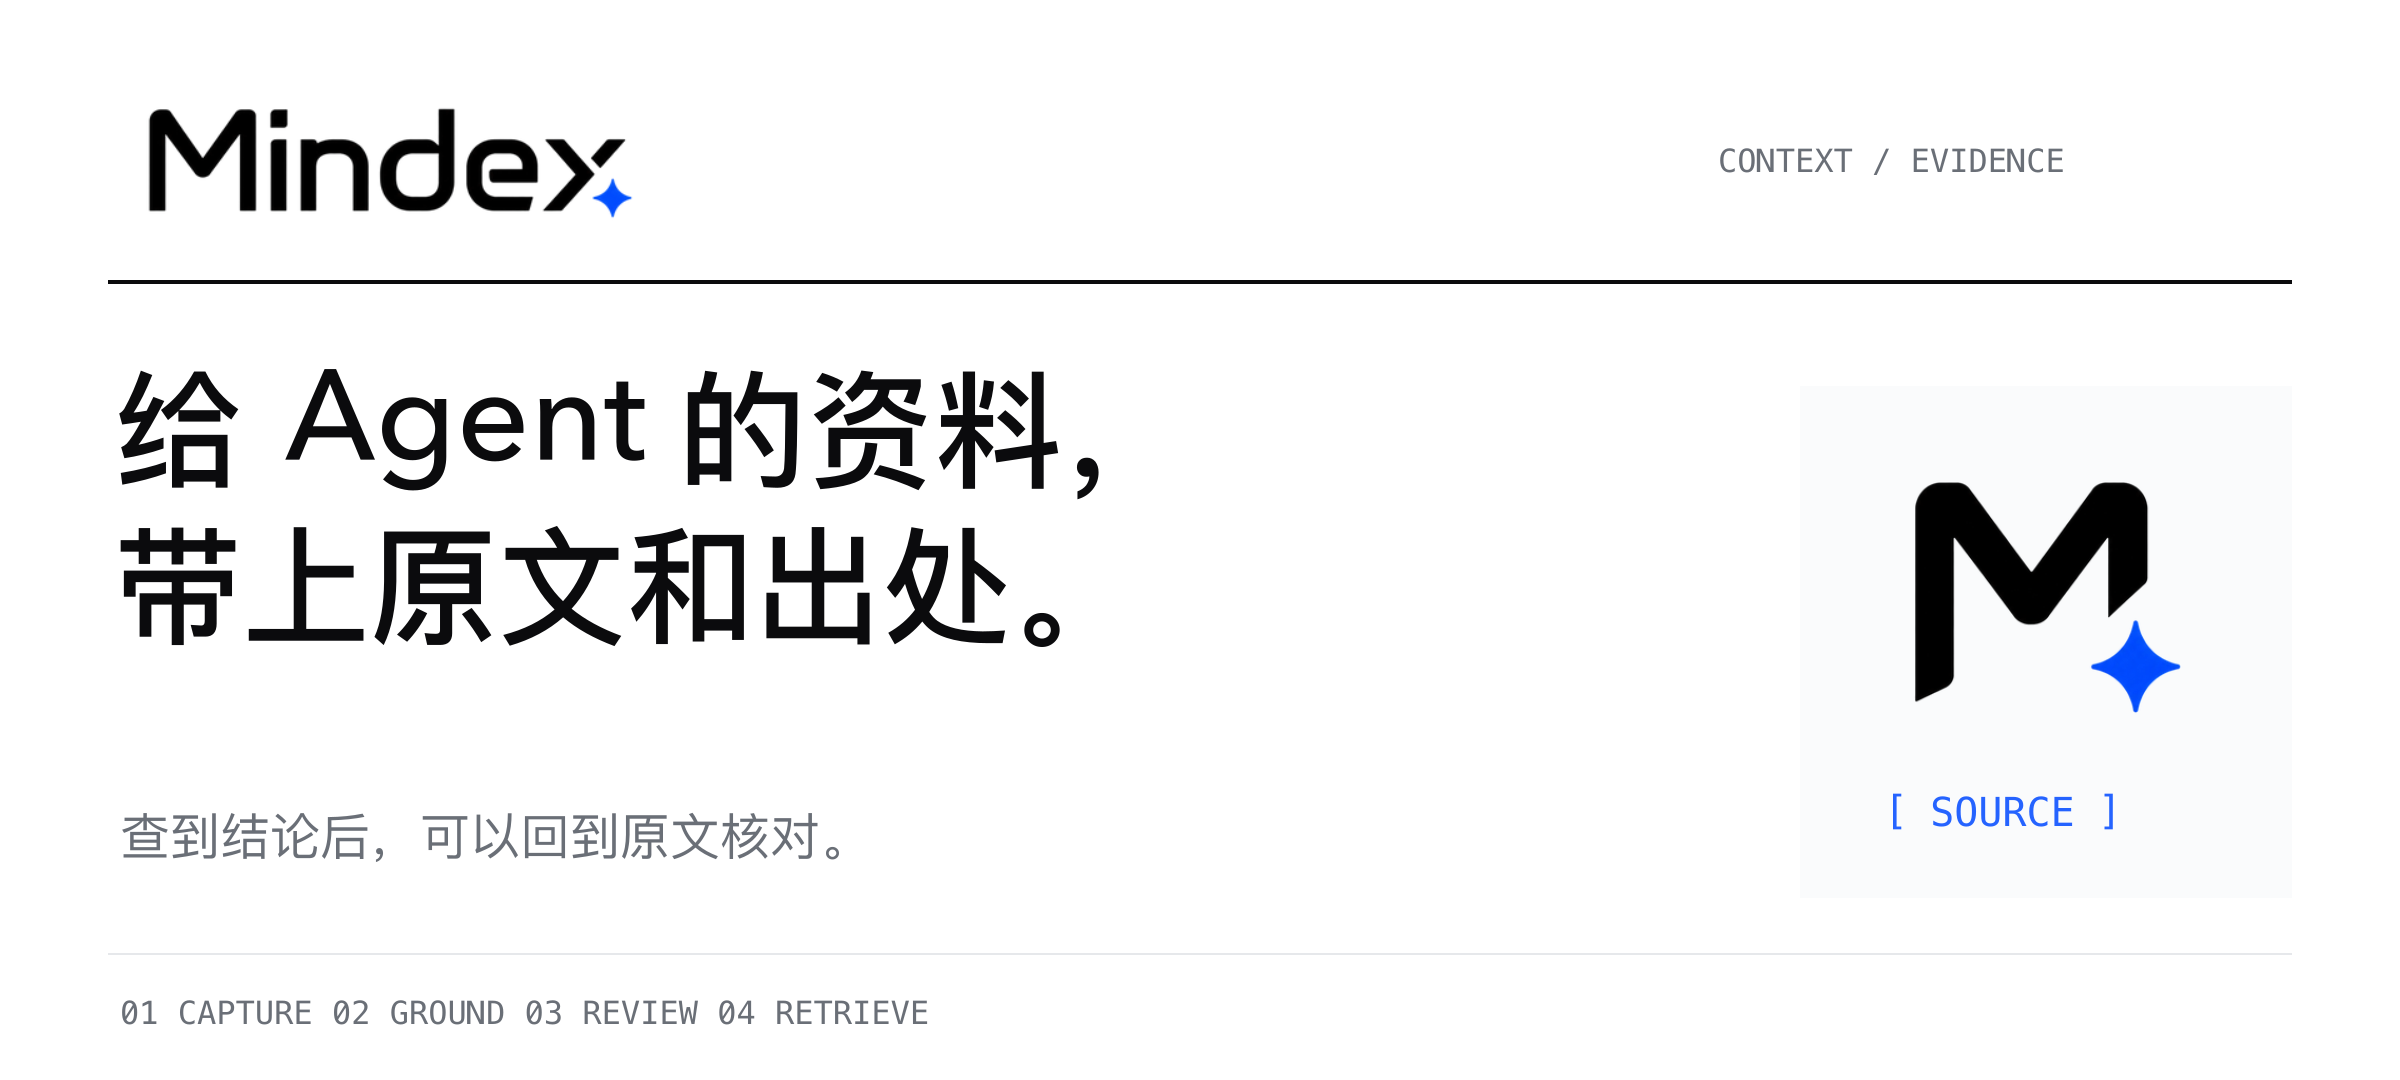
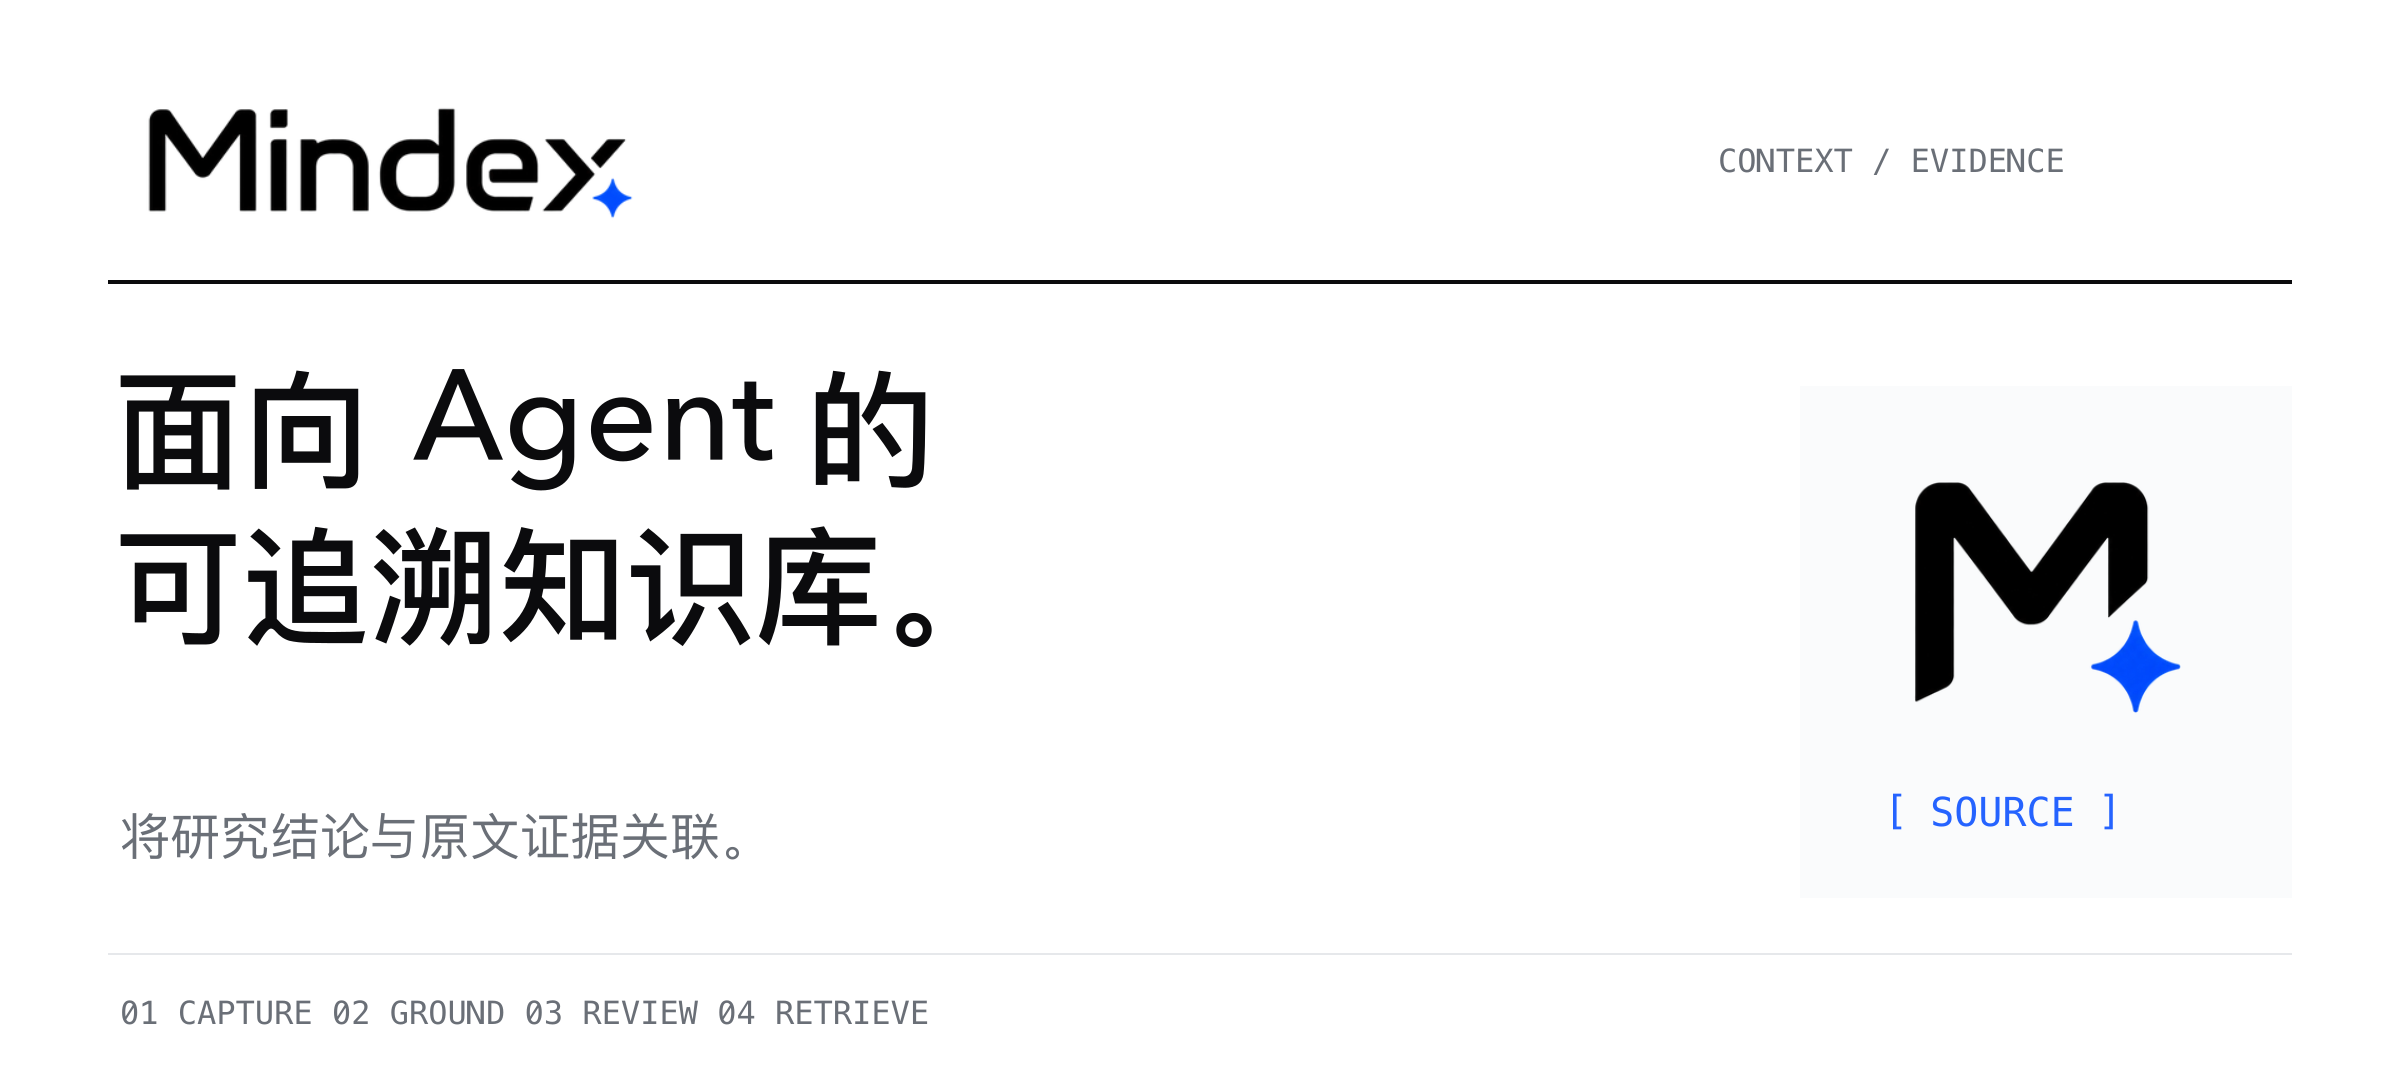
docs: refine Chinese product overview and visual copy

Changed region(s): [[0.0312, 0.4889, 0.4375, 0.6111], [0.0312, 0.3361, 0.4688, 0.4583], [0.0312, 0.7333, 0.3438, 0.7944]]

diff --git a/README.zh-CN.md b/README.zh-CN.md
@@ -1,27 +1,27 @@
-![Mindex · 让每条结论都有出处](.readme-assets/hero.zh-CN.png)
+![Mindex · 面向 Agent 的可追溯知识库](.readme-assets/hero.zh-CN.png)
 
 <p align="center"><a href="README.md">English</a> · <strong>简体中文</strong></p>
 <p align="center"><a href="#快速开始">快速开始</a> · <a href="docs/architecture.md">架构设计</a> · <a href="docs/evaluation.md">评测方法</a> · <a href="docs/compliance.md">来源策略</a></p>
 
-# Agent 查到的知识，可以回到原文核对
+# 面向 Agent 的可追溯知识库
 
-Mindex 是一个面向手游广告研究的本地知识库。它从资料中整理结论，同时保存原文和出处。研究人员和 Agent 查到一条知识后，都可以沿着引用回去核对。
+Mindex 为手游广告研究建立带有来源与审核记录的本地知识库。每条结论都关联抽取时的资料快照和原文证据，研究人员可据此核对引用、审阅判断。
 
-有疑问的结论会进入审核队列。不同资料里的说法对不上时，系统会保留这些分歧。需要把资料交给另一个 Agent 时，可以按任务和 Token 预算生成带引用的 Context Pack。
+面对不确定或相互冲突的信息，Mindex 保留分歧与审核状态。用于下游任务时，系统按需求和 Token 预算组装 Context Pack，通过 REST 或 MCP 向 Agent 提供带引用的上下文。
 
 ![收集资料、核对证据、审核判断、提供上下文](.readme-assets/workflow.zh-CN.png)
 
-## 资料怎样变成可用的知识
+## 来源、证据与审核
 
-| 能力 | 帮你完成什么 |
+| 能力 | 作用 |
 | --- | --- |
-| 来源快照 | 保存抽取时使用的那一版资料。 |
+| 来源快照 | 保留知识抽取时使用的资料版本与上下文。 |
 | 引文校验 | 检查证据引文能否在来源快照中找到。 |
 | 依据与审核 | 查看判断依据，审核有疑问或相互冲突的结论。 |
 | Context Pack | 按任务与 Token 预算提供带引用的知识包。 |
 | REST 与 MCP | 让人和下游 Agent 使用同一套知识服务。 |
 
-## 一条结论怎样保留出处
+## 知识处理流程
 
 ```mermaid
 flowchart LR
@@ -35,7 +35,7 @@ flowchart LR
   F --> H[REST API 与 MCP]
 ```
 
-找到对应的原文，只能说明引用有出处。原文是否可靠、能否支持这条结论，还需要核对；少量评论也未必代表更多用户。界面中的置信分数用于辅助审核，没有经过独立的概率校准。
+引文校验确认的是引用与快照的一致性。来源可靠性、证据对结论的支持程度，以及样本的代表性，仍需进一步审阅。界面中的置信分数用于辅助审核，尚未经独立概率校准。
 
 ## 快速开始
 
@@ -53,7 +53,7 @@ npm start
 
 数据保存在本地 `data/` 目录。该目录和真实凭据应保留在运行环境中。
 
-## 让 Agent 读取知识
+## Agent 接入
 
 在「Agent 接入」页面创建限定项目范围的 API Key。服务提供带引用的检索与知识包接口，MCP 复用同一套 REST 鉴权。
 
